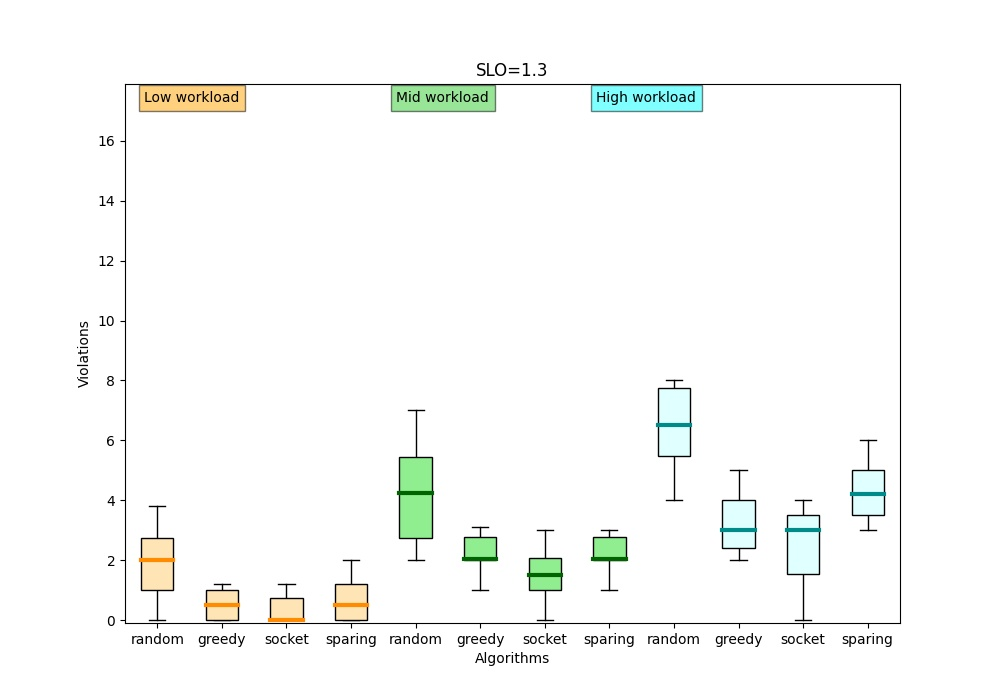
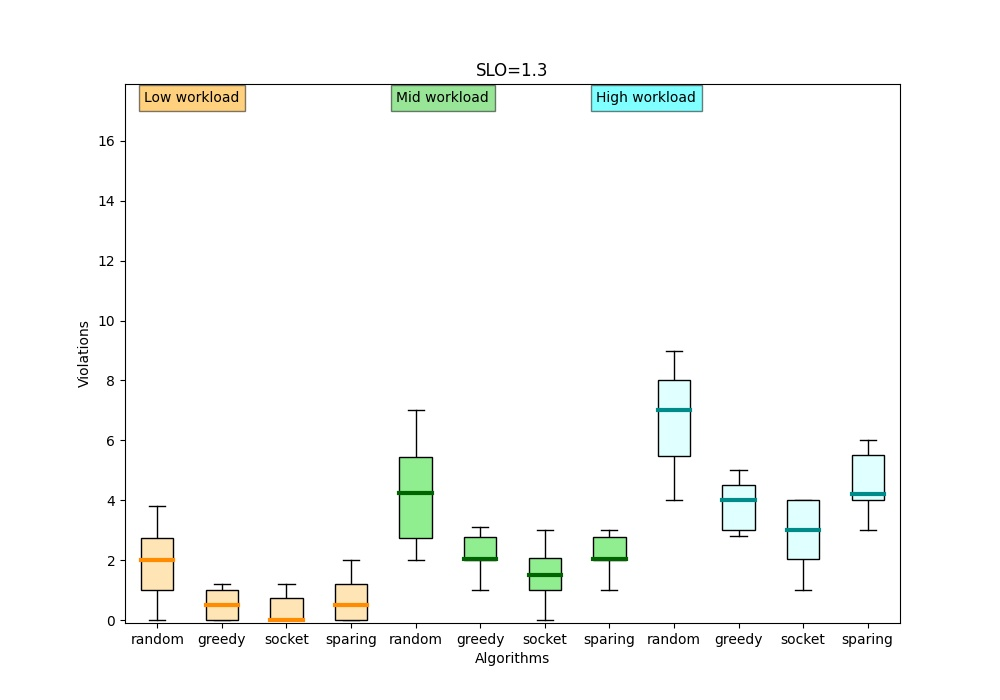
Backup 27-2-2022

diff --git a/times/boxplot2.py b/times/boxplot2.py
@@ -9,43 +9,43 @@ for slo in slo:
 
   if slo==1.1:
     data_random_low = [6,8,7,8,5,6.5,7.5,3,10]
-    data_greedy_low = [6,8,7,5,6,3,3,4.8]
-    data_socket_low = [3,5,3,1,3,5,4,2.1]
-    data_sparing_low = [4,5,5,3,5,2.8]
+    data_greedy_low = [5,7,7,5,6,3,3,4.8]
+    data_socket_low = [3,5,2,1,3,4,4,2.1]
+    data_sparing_low = [4,5,4,3,4,2.8]
     data_random_mid = [11,9,12,13,10,11.5,12.5,14.2]
-    data_greedy_mid = [10,9,11,9,10,8.8]
-    data_socket_mid = [9,7,8,7,10,8.8]
-    data_sparing_mid =[9,6,10,8,10,7.8]
+    data_greedy_mid = [8,7,11,9,10,8.8]
+    data_socket_mid = [6,4,8,7,10,8.8]
+    data_sparing_mid =[5,4,10,8,10,7.8]
     data_random_high = [15,13,16,16,14,15.5,15,13.2]
-    data_greedy_high = [10,11,12,9,13,14,10.1]
-    data_socket_high = [15,8,14,13,12,11.6,9,10.1]
-    data_sparing_high = [12,10,13,11,13,11.8]
+    data_greedy_high = [10,10,11,11,13,14,10.1]
+    data_socket_high = [11,8,9,11,12,11.6,9,10.1]
+    data_sparing_high = [9,8,10,11,13,11.8]
   elif slo==1.2:
     data_random_low = [2,2,3,4,2,2,4,3,5.2]
-    data_greedy_low = [1,2,0,2,0,0.8]
-    data_socket_low = [0,2,0,1,0,0.8]
-    data_sparing_low = [0,2,0,1,0,0.9,0.5]
+    data_greedy_low = [1,1,0,2,0,0.8]
+    data_socket_low = [0,1,0,1,0,0.8]
+    data_sparing_low = [0,1,0,1,0,0.9,0.5]
     data_random_mid = [5,5,6,7,8,6.5,7.5,10,9.5]
-    data_greedy_mid = [5,5,4,6,3.9,4.6]
-    data_socket_mid = [3,4,2,5,2,5.2]
-    data_sparing_mid = [4,2,3,5,3,4.8]
+    data_greedy_mid = [3,3,4,6,3.9,4.6]
+    data_socket_mid = [3,3,2,4,2,5.2]
+    data_sparing_mid = [4,2,3,2,2,4.8]
     data_random_high = [7,9,8,12,8,9,12,11,13,10.1]
-    data_greedy_high = [6,8,5,7,4,6,6.8]
-    data_socket_high = [6,7,5,7,4,6,5.8]
-    data_sparing_high = [6,8,5,7,4,6,6.3]
+    data_greedy_high = [5,7,5,7,4,6,6.8]
+    data_socket_high = [6,6,5,6,5,6,5.8]
+    data_sparing_high = [6,7,5,7,4,6,6.3]
   else:
     data_random_low = [1,2,2,0,1,2.5,3.5,3.8]
-    data_greedy_low = [0,1,0,1,0,1.2]
+    data_greedy_low = [0,0,0,1,0,1.2]
     data_socket_low = [0,0,0,1,0,1.2]
-    data_sparing_low = [0,2,0,1,0,1.27]
+    data_sparing_low = [0,0,0,1,0,1.27]
     data_random_mid = [3,2,4,5,2,4.5,7,6.8]
-    data_greedy_mid = [3.1,2,1,3,2,2.1]
-    data_socket_mid = [1,0,2,1,3,2.1]
-    data_sparing_mid = [3,2,2,3,1,2.1]
-    data_random_high = [4,6,5,8,7,8,9,7,8,5.3]
-    data_greedy_high = [3,4,3,4,5,5,2.8]
-    data_socket_high = [1,4,3,2,4,4,2.1]
-    data_sparing_high = [4,6,4,6,3,5,4.2]
+    data_greedy_mid = [3,1,1,3,2,2.1]
+    data_socket_mid = [1,0,1,1,3,2.1]
+    data_sparing_mid = [3,1,2,2.5,1,2.1]
+    data_random_high = [4,6,5,8,6,8,7,7,8,5.3]
+    data_greedy_high = [3,3,2,4,4,5,2.8]
+    data_socket_high = [1,2,3,4,3,4,1.1]
+    data_sparing_high = [2,4,3,5,3,5,4.2]
  
   data = [data_random_low, data_greedy_low, data_socket_low, data_sparing_low, data_random_mid, data_greedy_mid, data_socket_mid, data_sparing_mid , data_random_high, data_greedy_high, data_socket_high, data_sparing_high ]
  
@@ -103,7 +103,7 @@ for slo in slo:
   ax.set_xticklabels(['random', 'greedy', 'socket', 'sparing', 'random', 'greedy', 'socket', 'sparing' , 'random', 'greedy', 'socket', 'sparing'])
  
   # Adding title
-  plt.title("SLO=" + str(slo))
+  plt.title("SLO=" + str(slo) + " With CPU pinning")
  
   # Removing top axes and right axes
   # ticks
@@ -114,4 +114,4 @@ for slo in slo:
   ax.set_ylabel('Violations')
      
   # show plot
-  plt.savefig('slo' + str(slo) + '.jpg')
+  plt.savefig('slo-B-' + str(slo) + '.jpg')

diff --git a/times/boxplot-tall.py b/times/boxplot-tall.py
@@ -1,0 +1,93 @@
+#! /usr/bin/python3
+
+import matplotlib.pyplot as plt
+import numpy as np
+slo= [1, 2, 3] #1 = greedy, 2 = socket , 3 = sparing
+
+for slo in slo:
+
+  if slo==1:
+    data_random_low = 4.2
+    data_greedy_low = 2.6
+    data_greedy_low2 = 2.1
+    data_random_mid = 7.9
+    data_greedy_mid = 5.6
+    data_greedy_mid2 = 4.9
+    data_random_high = 10.2
+    data_greedy_high = 7.2
+    data_greedy_high2 = 6.7
+    #data = [ data_random_low, data_greedy_low, data_greedy_low2, data_random_mid, data_greedy_mid, data_greedy_mid2, data_random_high, data_greedy_high, data_greedy_high2 ]
+    algos = [data_greedy_low,data_greedy_mid, data_greedy_high]
+    pinned =[data_greedy_low2,data_greedy_mid2, data_greedy_high2]
+    val_color = 'moccasin'
+  elif slo==2:
+    data_random_low = 4.2
+    data_socket_low = 1.4
+    data_socket_low2 = 1.1
+    data_random_mid = 7.9
+    data_socket_mid = 4.4
+    data_socket_mid2 = 3.8
+    data_random_high = 10.2
+    data_socket_high = 6.8
+    data_socket_high2 = 6.3  
+    #data = [ data_random_low, data_socket_low, data_socket_low2, data_random_mid, data_socket_mid, data_socket_mid2, data_random_high, data_socket_high, data_socket_high2 ]
+    algos = [data_socket_low,data_socket_mid, data_socket_high]
+    pinned =[data_socket_low2,data_socket_mid2, data_socket_high2]
+    val_color = 'lightgreen'
+  else:
+    data_random_low = 4.2
+    data_sparing_low = 2.2
+    data_sparing_low2 = 1.6
+    data_random_mid = 7.9
+    data_sparing_mid =4.8
+    data_sparing_mid2 = 4.1
+    data_random_high = 10.2
+    data_sparing_high = 7.5
+    data_sparing_high2 = 6.8
+    #data = [ data_random_low, data_sparing_low, data_sparing_low2, data_random_mid, data_sparing_mid, data_sparing_mid2, data_random_high, data_sparing_high, data_sparing_high2 ]
+    algos = [data_sparing_low,data_sparing_mid, data_sparing_high]
+    pinned =[data_sparing_low2,data_sparing_mid2, data_sparing_high2]
+    val_color = 'lightcyan'
+ 
+  fig = plt.figure(figsize =(10, 7))
+  ax = fig.add_subplot(111)
+  
+  bars = ('low', 'mid', 'high')
+  
+  randoms = [data_random_low, data_random_mid, data_random_high]
+ 
+  x_pos = np.arange(len(bars))
+  width = 0.25
+  
+  fig, ax = plt.subplots()
+  rects1 = ax.bar(x_pos - width, randoms, width=0.25, label ='Random')
+  rects2 = ax.bar(x_pos, algos, width=0.25, label = 'No CPU pin')
+  rects3 = ax.bar(x_pos + width, pinned, width=0.25, label = 'CPU-pinned')
+
+ 
+  # Adding title
+  if slo == 1:
+    ax.set_title("Random vs Greedy vs Greedy with CPU pin")
+  elif slo == 2:
+    ax.set_title("Random vs Socket vs Socket with CPU pin")
+  else:
+    ax.set_title("Random vs Sparing vs Sparing with CPU pin")
+ 
+  # Removing top axes and right axes
+  # ticks
+  ax.get_xaxis().tick_bottom()
+  ax.get_yaxis().tick_left()
+  ax.legend()
+  
+  ax.set_xlabel('Workloads')
+  ax.set_ylabel('Average Violations')
+  
+  ax.set_xticks(x_pos)
+  ax.set_xticklabels(bars)
+  
+  ax.bar_label(rects1, padding = 3)
+  ax.bar_label(rects2, padding = 3)
+  ax.bar_label(rects3, padding = 3)
+     
+  # show plot
+  plt.savefig('cpupinning' + str(slo) + '.jpg')
